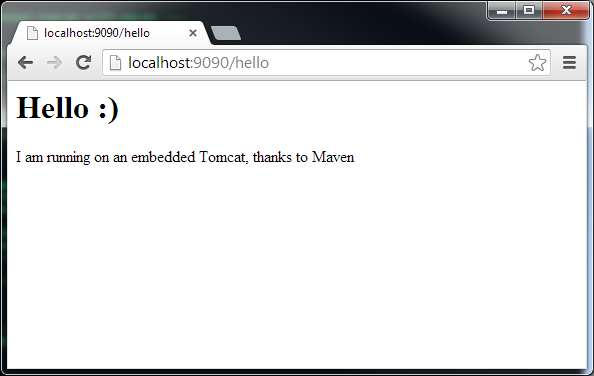
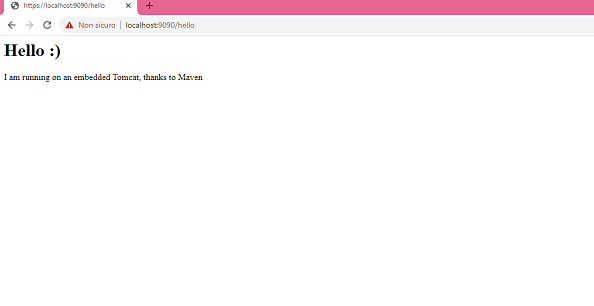
aggiunta keystore

Changed region(s): [[0.0, 0.0, 1.0, 1.0]]

diff --git a/README.md b/README.md
@@ -108,11 +108,14 @@ mvnw clean package
 
 > Avrai un jar sotto a target con suffisso **war-exec** . 
 
-* Run
+* Run:
 
  ```java -jar <nome-jar> --httpsPort 9090 --keyAlias tomcat```
 
 
+## Note
+
+* Sotto a questo repository c'è il **.keystore** generato ed usato dal quick start
 
 ## Link utili
 
